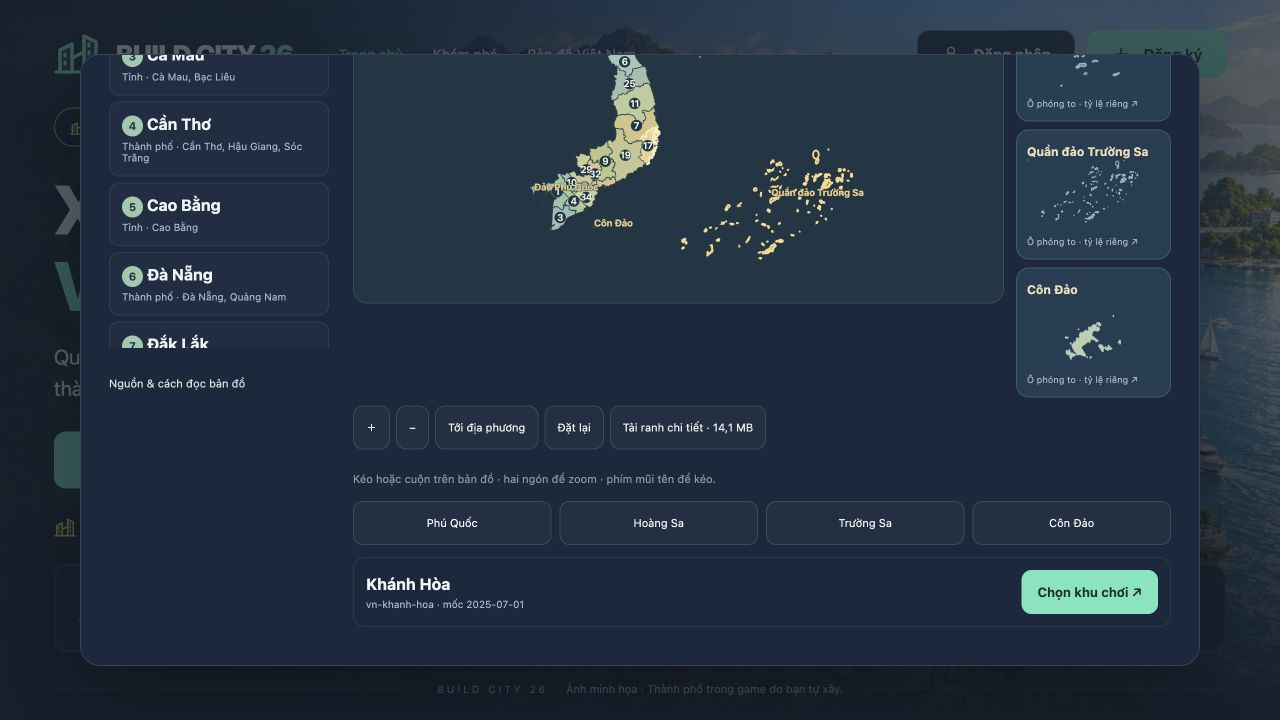
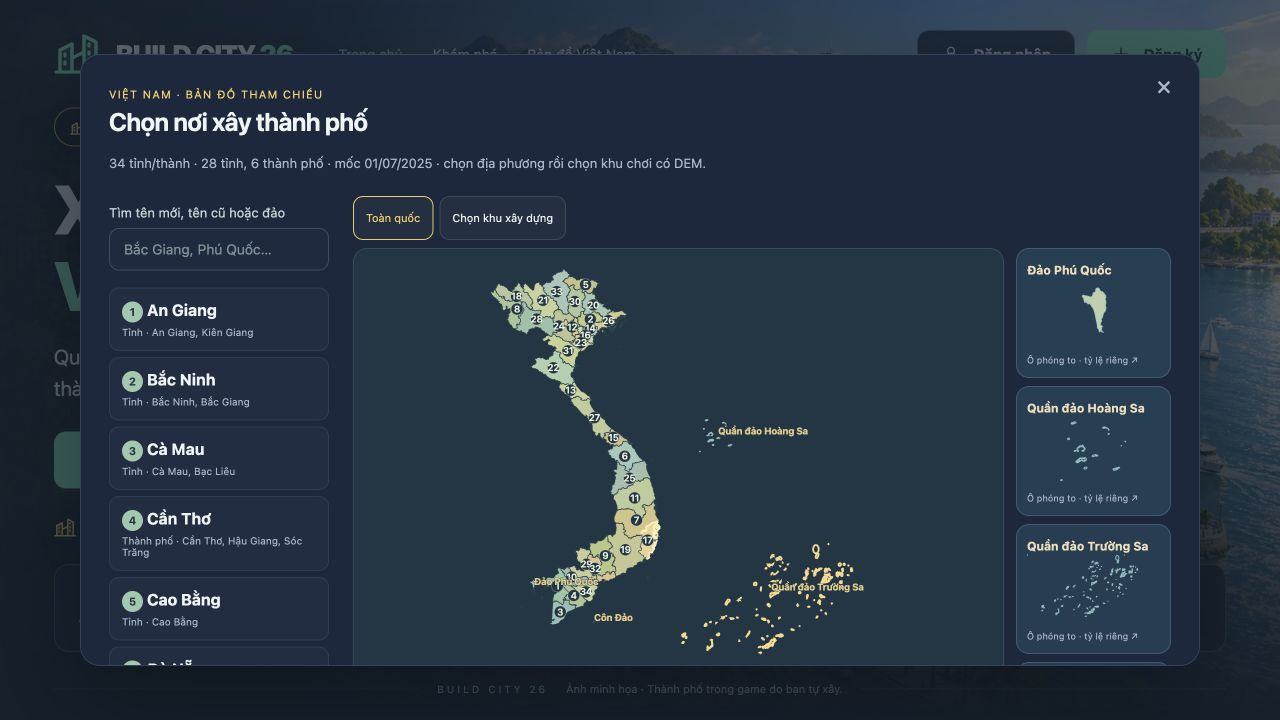
Fit all island insets in laptop map view

diff --git a/src/style.css b/src/style.css
@@ -90,3 +90,5 @@ dialog{background:#142f39;border-radius:20px;border-color:#88b6c332}dialog::back
 @media(max-width:850px){.geo-country-board{grid-template-columns:minmax(0,1fr) 130px}#geoCountry{height:420px}.geo-insets{grid-template-columns:1fr}}
 @media(max-width:600px){.geo-country-board{grid-template-columns:1fr}.geo-insets{grid-template-columns:repeat(4,minmax(0,1fr));gap:4px}.geo-inset{padding:6px}.geo-inset svg{height:42px}.geo-inset strong{font-size:9px}.geo-inset small{font-size:8px}.geo-layout{gap:8px}.geo-provinces{max-height:140px}#geoCountry{height:350px}.geo-map-actions .action{padding:8px;font-size:10px}.geo-selection{flex-wrap:wrap}.geo-source{margin:0}.geo-dialog{max-height:92dvh;overflow:auto}#geoIslandInfo{padding:12px}}
 @media(prefers-reduced-motion:reduce){.geo-dialog *{scroll-behavior:auto;transition:none;animation:none}}
+/* Keep all four island insets visible alongside the country at laptop heights. */
+@media(min-width:601px){#geoCountry,.geo-insets{height:clamp(280px,48dvh,410px)}.geo-insets{grid-template-rows:repeat(4,minmax(0,1fr))}.geo-inset{min-height:0;padding:7px 8px;display:grid;grid-template-rows:18px minmax(0,1fr) 12px;gap:2px}.geo-inset strong{font-size:11px}.geo-inset svg{height:100%;min-height:0}.geo-inset small{font-size:8px}.geo-provinces{max-height:clamp(180px,45dvh,430px)}}

diff --git a/docs/national-map-integration.md b/docs/national-map-integration.md
@@ -47,3 +47,11 @@ Sau khi rebuild localhost trong lúc tab cũ còn mở, gặp lỗi dynamic impo
 - `scripts/offline-worker.template.js`: cache riêng5 file nhẹ/metadata/alias quốc gia sau khi người chơi yêu cầu; whitelist và giới hạn stream tối đa2,8MB tổng. Không precache GIS ở khởi động, không cache full14,1MB, auth/API, request có Authorization/query. Mất mạng chỉ dùng bản đã tải; chưa có trả503. Checksum vẫn kiểm khi chooser đọc. `tests/offline-worker.test.js`:3/3 đạt, gồm mất mạng, private/full/oversize không cache. Chưa giả lập network-offline qua trình duyệt vật lý.
 - Import chooser lỗi lúc chọn địa phương đăng ký trả thông báo và giữ form; không tạo tài khoản hay xóa tiến trình.
 - **Phân biệt bản phát hành:**16adcf9 đã push/Ready. Bản sửa tải chunk0b72ff1 và phần offline mới chỉ local; push bổ sung đã bị automatic approval review từ chối vì hết usage limit xét duyệt. Không dùng đường khác để bỏ qua approval và không tuyên bố các sửa này đã online.
+
+- Bố cục local1280×720: bốn inset nằm từy247,90 tới593,49, trong dialog đáy666; controls zoom/full nằm cùng màn. Ảnh`national-map-compact-local.png`, khác bản production. Build sau chỉnh bố cục đạt17,07s.
+
+Production cũng đã bấm tải ranh đầy đủ: nút chuyển thành **Đã tải ranh chi tiết**, giữ1.608 thành phần. Bản bổ sung local hiện là0b72ff1/eecab4e và commit bố cục laptop kế tiếp (offline, xử lý chunk, bố cục); production16adcf9.
+
+### Các file map sửa/thêm
+
+`src/game/geography/{chooser,city,data,overview,national,local-projection,save-metadata}.js`; `src/config/vietnam-province-ids.json`; `src/app.js`; `src/style.css`; `scripts/offline-worker.template.js`; `tests/national-map.test.js`, `tests/offline-worker.test.js`, `tests/archipelagos.test.js`; `public/geodata/vn-map-20250701-v1/` (GeoJSON nhẹ/full,5 metadata/lookup/reference và nguồn/contract); README/ASSET_LICENSES/implementation-status/vietnam-map và các ảnh QA. Danh sách toàn bộ chặng mỹ thuật/cư dân kèm theo có trong commit16adcf9; những file này không đồng nghĩa mọi nghiệp vụ144 mẫu đã xong.

diff --git a/docs/implementation-status.md b/docs/implementation-status.md
@@ -181,3 +181,5 @@ Push HTTPS thực thất bại vì credential helper trỏ GitHub CLI đã bị 
 Commit16adcf9 đã push GitHub, Vercel Ready22s; QA domain thật đủ34 vùng/1.608 polygon, tra Bắc Giang→Bắc Ninh, ba quick-focus đảo đúng hành chính và cấm xây. Ảnhnational-map-production.png. Giữ bản lưu/tài khoản người dùng, không reset thành phố production.
 
 Đã bổ sung local cache riêng cho5 file quốc gia nhẹ, ngân sách tối đa2,8MB; full14,1MB và private requests không cache. Offline tests3/3 đạt; suite133/133 trước đó vẫn là bằng chứng regression, chưa gọi số134 là full-suite đã chạy. Bổ sung bắt lỗi dynamic import trong form đăng ký giữ các ô đã nhập. Commit0b72ff1 và bổ sung này chưa push vì auto-review hết usage limit; production chỉ xác nhận16adcf9.
+
+Bố cục local thu gọn theo chiều cao laptop, cả4 inset trong dialog1280×720; ảnhnational-map-compact-local.png. Build cuối17,07s đạt; source diff check đạt. Phần này chưa có trên production16adcf9.
